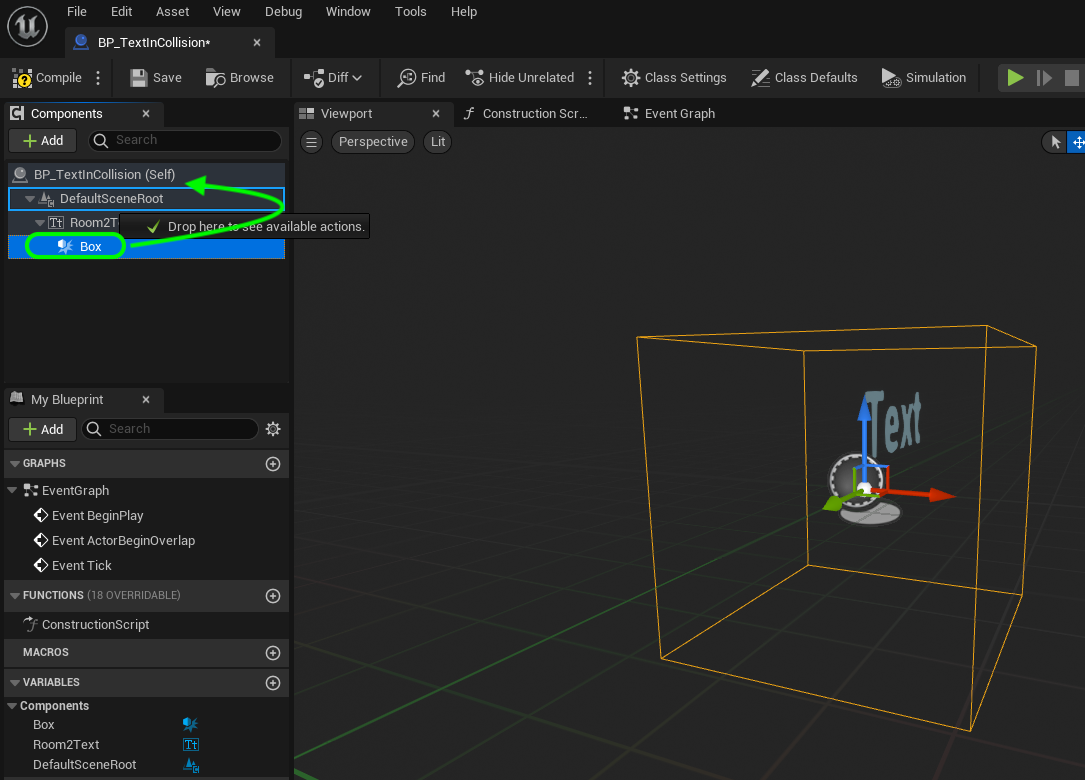
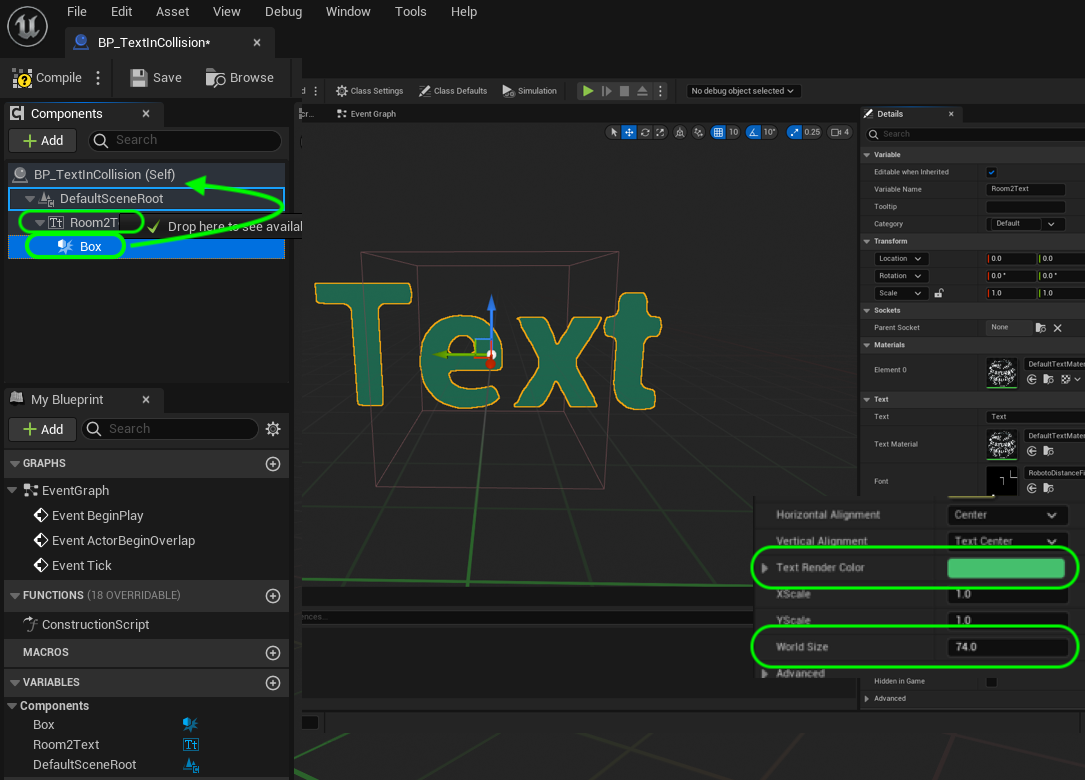
updating blueprints to ue5

diff --git a/collision/README.md b/collision/README.md
@@ -54,7 +54,7 @@ Now press **Add Component** again and this time we want a collision box. We can 
 
 ##### `Step 6.`\|`ITB`| :small_orange_diamond: :small_blue_diamond:
 
-Rename the text component to `TextInRoom2`. Drag and drop this on top of the **DefaultSceneRoot** component. This will make the text box the root (parent) component. Make the **Text Render Color** more visible on a white background and change the **World Size** to `74`.
+Rename the text component to `TextInRoom2`. Drag and drop this on top of the **DefaultSceneRoot** component. This will make the text box the root (parent) component. Make the **Text Render Color** more visible on a white background and change the **World Size** to `74` and make the text color **Green**.
 
 ![rename component and make world size 74 and recolor](images/RenameMakeParentRoot.png)
 
@@ -62,7 +62,7 @@ Rename the text component to `TextInRoom2`. Drag and drop this on top of the **D
 
 ##### `Step 7.`\|`ITB`| :small_orange_diamond: :small_blue_diamond: :small_blue_diamond:
 
-With the **Box** component selected go to the **Details** panel and change the **Box Extent** to `600` on the **X**, `400` on the **Y** and `200` on the **Z**. Also make sure the text element is at the rear of the collision box. Press the <kbd>Compile</kbd> button.
+With the **Box** component selected go to the **Details** panel and change the **Box Extent** to `600` on the **X**, `1400` on the **Y** and `200` on the **Z**. Also make sure the text element is at the rear of the collision box. Press the <kbd>Compile</kbd> button.
 
 ![change shape of collision box](images/ChangeBoxShape.jpg)
 
